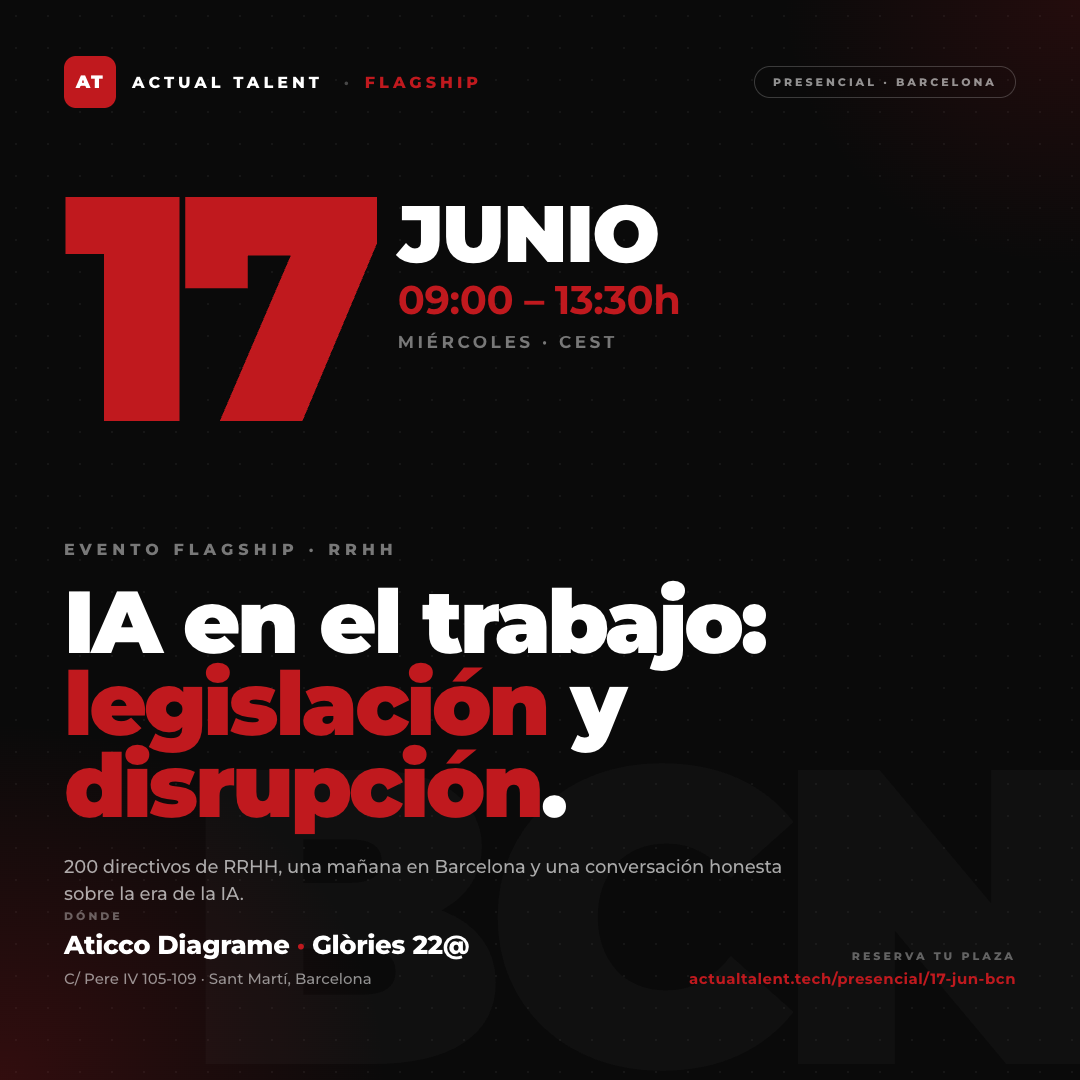
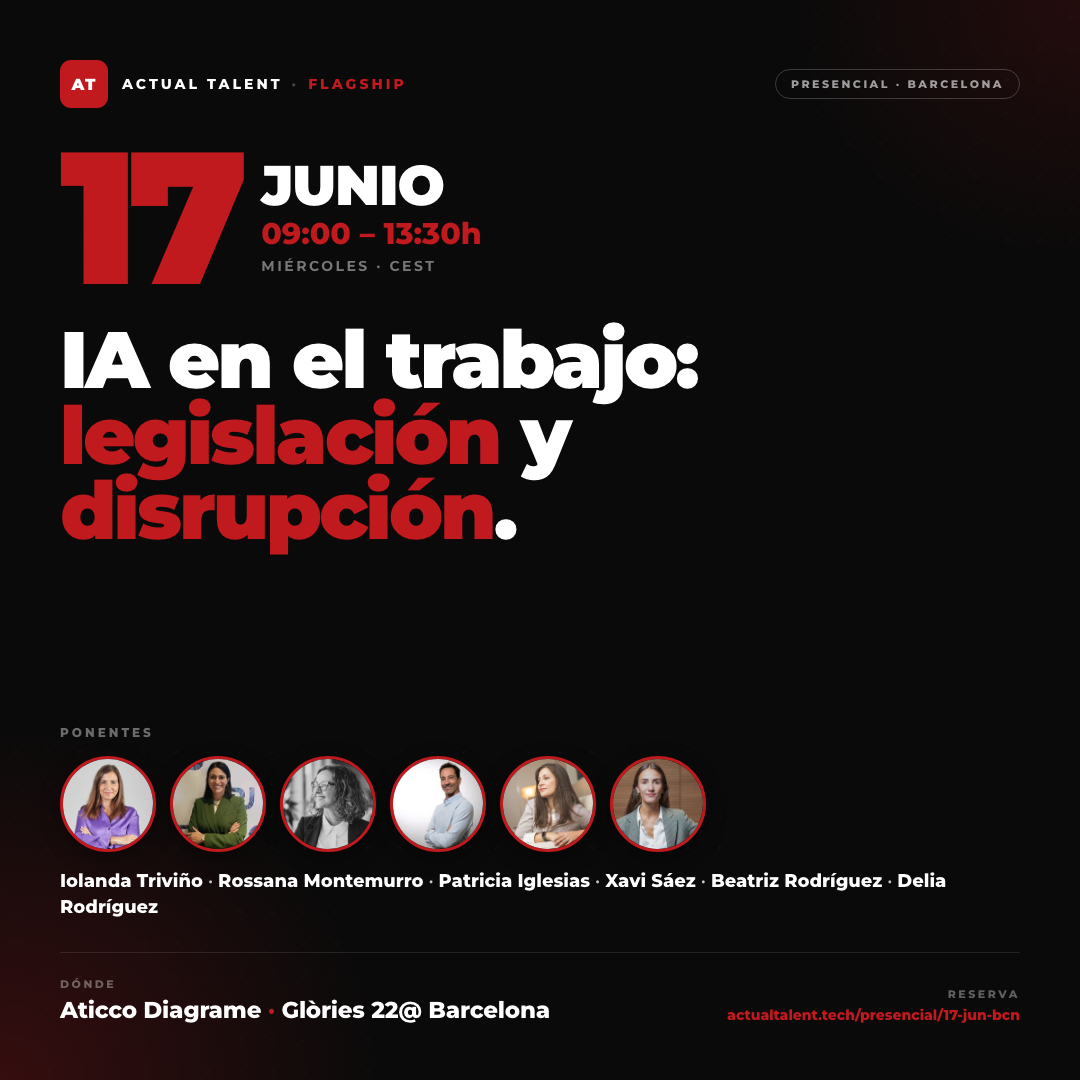
feat(17-jun-bcn): flyers - LinkedIn 4:5 (full lineup) + Luma 1:1 (legible)
LinkedIn flyer 1080x1350: big date + title + 6-speaker grid (photo/name/role) + venue/CTA.
Luma flyer 1080x1080: legibility-first (huge date/title/venue) + compact 6-face lineup strip.
Square PNG also refreshes the og:image for the WhatsApp/social preview. Dark AT-red style,
Montserrat, rendered at native 1080px.

diff --git a/presencial/17-jun-bcn/flyer-square/index.html b/presencial/17-jun-bcn/flyer-square/index.html
@@ -2,224 +2,90 @@
 <html lang="es">
 <head>
 <meta charset="UTF-8">
-<meta name="viewport" content="width=device-width, initial-scale=1.0">
 <title>Flyer 1080×1080 · IA en el trabajo: Legislación y disrupción · 17 jun 2026 · Barcelona</title>
 <link rel="preconnect" href="https://fonts.googleapis.com">
 <link href="https://fonts.googleapis.com/css2?family=Montserrat:wght@400;500;600;700;800;900&display=swap" rel="stylesheet">
 <style>
-*, *::before, *::after { box-sizing: border-box; margin: 0; padding: 0; }
-
-:root {
-  --red:        #C0191E;
-  --black:      #1A1A1A;
-  --near-black: #0A0A0A;
-  --gray:       #6B6B6B;
-  --white:      #ffffff;
-}
-
-body {
-  font-family: 'Montserrat', sans-serif;
-  background: #1A1A1A;
-  -webkit-font-smoothing: antialiased;
-  min-height: 100vh;
-  display: flex; align-items: center; justify-content: center;
-  padding: 20px;
-}
-
-.flyer {
-  width: 1080px; height: 1080px;
-  flex-shrink: 0;
-  position: relative; overflow: hidden;
-  background: var(--near-black);
-  background-image: radial-gradient(circle, rgba(255,255,255,0.05) 1.2px, transparent 1.2px);
-  background-size: 32px 32px;
-  color: var(--white);
-  transform-origin: center;
-}
-
-@media (max-width: 1120px), (max-height: 1120px) {
-  body { padding: 0; background: #000; }
-  .flyer { transform: scale(min(calc((100vw) / 1080), calc((100vh) / 1080))); }
-}
-
-/* ATMOSPHERE */
-.flyer::before {
-  content: ''; position: absolute; inset: 0;
-  background:
-    radial-gradient(ellipse 65% 60% at 0% 100%, rgba(192,25,30,0.22) 0%, transparent 55%),
-    radial-gradient(ellipse 50% 45% at 100% 0%, rgba(192,25,30,0.14) 0%, transparent 55%);
-  pointer-events: none; z-index: 1;
-}
-
-/* WATERMARK */
-.flyer::after {
-  content: 'BCN';
-  position: absolute; bottom: -4%; right: -1%;
-  font-size: 420px; font-weight: 900; letter-spacing: -0.05em;
-  color: rgba(255,255,255,0.025); line-height: 1;
-  pointer-events: none; user-select: none; z-index: 1;
-}
-
-/* TOP BAR */
-.topbar {
-  position: absolute; top: 56px; left: 64px; right: 64px;
-  display: flex; align-items: center; justify-content: space-between;
-  z-index: 10;
-}
-.brand-mark { display: flex; align-items: center; gap: 16px; }
-.at-logo {
-  width: 52px; height: 52px;
-  border-radius: 12px; background: var(--red);
-  display: flex; align-items: center; justify-content: center;
-  font-size: 18px; font-weight: 900; letter-spacing: 1.5px; color: var(--white);
-}
-.brand-text {
-  font-size: 16px; font-weight: 800; letter-spacing: 4px; text-transform: uppercase;
-  color: var(--white);
-}
-.brand-text .sep { color: rgba(255,255,255,0.25); margin: 0 12px; }
-.brand-text .type { color: var(--red); }
-
-.format-tag {
-  font-size: 11px; font-weight: 800; letter-spacing: 3px; text-transform: uppercase;
-  color: rgba(255,255,255,0.55);
-  border: 1px solid rgba(255,255,255,0.2);
-  border-radius: 100px; padding: 8px 18px;
-}
-
-/* DATE BLOCK */
-.date-block {
-  position: absolute; top: 170px; left: 64px;
-  display: flex; align-items: flex-start; gap: 32px;
-  z-index: 5;
-}
-.date-num {
-  font-size: 320px; font-weight: 900; line-height: 0.85;
-  color: var(--red); letter-spacing: -0.06em;
-}
-.date-side {
-  display: flex; flex-direction: column; padding-top: 26px; gap: 8px;
-}
-.date-month {
-  font-size: 80px; font-weight: 900; line-height: 0.95;
-  color: var(--white); letter-spacing: -0.02em; text-transform: uppercase;
-}
-.date-time {
-  font-size: 40px; font-weight: 700; color: var(--red);
-  letter-spacing: -0.01em; line-height: 1;
-}
-.date-tz {
-  font-size: 17px; font-weight: 700; letter-spacing: 3.5px; text-transform: uppercase;
-  color: rgba(255,255,255,0.45); margin-top: 4px;
-}
-
-/* TITLE */
-.title-wrap {
-  position: absolute; top: 540px; left: 64px; right: 64px;
-  z-index: 5;
-}
-.title-eyebrow {
-  font-size: 16px; font-weight: 800; letter-spacing: 5px; text-transform: uppercase;
-  color: rgba(255,255,255,0.45); margin-bottom: 22px;
-}
-.title {
-  font-size: 88px; font-weight: 900; line-height: 0.93;
-  letter-spacing: -0.035em; color: var(--white);
-}
-.title .accent { color: var(--red); font-style: normal; }
-
-.title-sub {
-  font-size: 18px; font-weight: 500; line-height: 1.5;
-  color: rgba(255,255,255,0.65); letter-spacing: -0.005em;
-  margin-top: 28px; max-width: 720px;
-}
-
-/* LOCATION (bottom) */
-.location {
-  position: absolute; bottom: 92px; left: 64px; right: 64px;
-  display: flex; align-items: flex-end; justify-content: space-between;
-  z-index: 5; gap: 32px;
-}
-.loc-block { display: flex; flex-direction: column; gap: 8px; max-width: 640px; }
-.loc-label {
-  font-size: 11px; font-weight: 800; letter-spacing: 3px; text-transform: uppercase;
-  color: rgba(255,255,255,0.35);
-}
-.loc-venue {
-  font-size: 26px; font-weight: 800; color: var(--white);
-  letter-spacing: -0.015em; line-height: 1.15;
-}
-.loc-venue .dot { color: var(--red); }
-.loc-addr {
-  font-size: 15px; font-weight: 500; color: rgba(255,255,255,0.55);
-  letter-spacing: 0;
-}
-
-.loc-cta {
-  text-align: right;
-  display: flex; flex-direction: column; gap: 6px; align-items: flex-end;
-}
-.loc-cta-label {
-  font-size: 11px; font-weight: 800; letter-spacing: 3px; text-transform: uppercase;
-  color: rgba(255,255,255,0.35);
-}
-.loc-cta-url {
-  font-size: 15px; font-weight: 700; letter-spacing: 0.5px;
-  color: var(--red);
-}
-
+*,*::before,*::after{box-sizing:border-box;margin:0;padding:0}
+:root{--red:#C0191E;--black:#1A1A1A;--near-black:#0A0A0A;--white:#fff}
+body{font-family:'Montserrat',sans-serif;background:#000;-webkit-font-smoothing:antialiased;display:flex;align-items:center;justify-content:center;min-height:100vh}
+.flyer{width:1080px;height:1080px;flex-shrink:0;position:relative;overflow:hidden;background:var(--near-black);
+  background-image:radial-gradient(circle,rgba(255,255,255,.05) 1.2px,transparent 1.2px);background-size:32px 32px;color:var(--white)}
+@media (max-width:1120px),(max-height:1120px){body{padding:0}.flyer{transform:scale(min(calc(100vw/1080),calc(100vh/1080)));transform-origin:center}}
+.flyer::before{content:'';position:absolute;inset:0;background:
+  radial-gradient(ellipse 65% 60% at 0% 100%,rgba(192,25,30,.24) 0%,transparent 55%),
+  radial-gradient(ellipse 50% 45% at 100% 0%,rgba(192,25,30,.14) 0%,transparent 55%);pointer-events:none;z-index:1}
+.wrap{position:absolute;inset:0;z-index:5;padding:60px 60px 56px;display:flex;flex-direction:column}
+.topbar{display:flex;align-items:center;justify-content:space-between}
+.brand{display:flex;align-items:center;gap:14px}
+.at-logo{width:48px;height:48px;border-radius:11px;background:var(--red);display:flex;align-items:center;justify-content:center;font-size:16px;font-weight:900;letter-spacing:1px}
+.brand-text{font-size:14px;font-weight:800;letter-spacing:3px;text-transform:uppercase}
+.brand-text .sep{color:rgba(255,255,255,.25);margin:0 9px}.brand-text .t{color:var(--red)}
+.tag{font-size:11px;font-weight:800;letter-spacing:2.5px;text-transform:uppercase;color:rgba(255,255,255,.6);border:1px solid rgba(255,255,255,.2);border-radius:100px;padding:7px 15px}
+.date{display:flex;align-items:center;gap:24px;margin-top:34px}
+.date-num{font-size:188px;font-weight:900;line-height:.8;color:var(--red);letter-spacing:-.06em}
+.date-side{display:flex;flex-direction:column;gap:5px}
+.date-month{font-size:56px;font-weight:900;line-height:.9;text-transform:uppercase;letter-spacing:-.02em}
+.date-time{font-size:30px;font-weight:800;color:var(--red)}
+.date-tz{font-size:14px;font-weight:700;letter-spacing:2.5px;text-transform:uppercase;color:rgba(255,255,255,.45)}
+.title{font-size:80px;font-weight:900;line-height:.94;letter-spacing:-.035em;margin-top:30px}
+.title .a{color:var(--red)}
+.lineup{margin-top:auto;padding-top:30px}
+.lineup-label{font-size:12px;font-weight:800;letter-spacing:3px;text-transform:uppercase;color:rgba(255,255,255,.4);margin-bottom:16px}
+.faces{display:flex;gap:14px}
+.faces .f{width:96px;height:96px;border-radius:50%;overflow:hidden;border:3px solid var(--red);box-shadow:0 6px 20px rgba(0,0,0,.4)}
+.faces .f img{width:100%;height:100%;object-fit:cover;display:block}
+.names{font-size:18px;font-weight:600;color:rgba(255,255,255,.78);margin-top:16px;line-height:1.45;max-width:920px}
+.names b{color:var(--white);font-weight:800}
+.footer{display:flex;align-items:flex-end;justify-content:space-between;margin-top:32px;gap:24px;border-top:1px solid rgba(255,255,255,.1);padding-top:24px}
+.f-label{font-size:11px;font-weight:800;letter-spacing:2.5px;text-transform:uppercase;color:rgba(255,255,255,.35);margin-bottom:5px}
+.f-venue{font-size:23px;font-weight:800;letter-spacing:-.01em}.f-venue .d{color:var(--red)}
+.f-cta{text-align:right}.f-url{font-size:14px;font-weight:800;color:var(--red)}
 </style>
 </head>
 <body>
-
 <div class="flyer">
-
-  <!-- TOP BAR -->
-  <div class="topbar">
-    <div class="brand-mark">
-      <div class="at-logo">AT</div>
-      <div class="brand-text">Actual Talent <span class="sep">·</span><span class="type">Flagship</span></div>
+  <div class="wrap">
+    <div class="topbar">
+      <div class="brand"><div class="at-logo">AT</div><div class="brand-text">Actual Talent<span class="sep">·</span><span class="t">Flagship</span></div></div>
+      <div class="tag">Presencial · Barcelona</div>
     </div>
-    <div class="format-tag">Presencial · Barcelona</div>
-  </div>
 
-  <!-- DATE BLOCK -->
-  <div class="date-block">
-    <div class="date-num">17</div>
-    <div class="date-side">
-      <div class="date-month">Junio</div>
-      <div class="date-time">09:00 – 13:30h</div>
-      <div class="date-tz">Miércoles · CEST</div>
+    <div class="date">
+      <div class="date-num">17</div>
+      <div class="date-side">
+        <div class="date-month">Junio</div>
+        <div class="date-time">09:00 – 13:30h</div>
+        <div class="date-tz">Miércoles · CEST</div>
+      </div>
     </div>
-  </div>
 
-  <!-- TITLE -->
-  <div class="title-wrap">
-    <div class="title-eyebrow">Evento flagship · RRHH</div>
-    <h1 class="title">
-      IA en el trabajo:<br>
-      <span class="accent">legislación</span> y<br>
-      <span class="accent">disrupción</span>.
-    </h1>
-    <p class="title-sub">
-      200 directivos de RRHH, una mañana en Barcelona y una conversación honesta sobre la era de la IA.
-    </p>
-  </div>
+    <h1 class="title">IA en el trabajo:<br><span class="a">legislación</span> y <span class="a">disrupción</span>.</h1>
 
-  <!-- LOCATION -->
-  <div class="location">
-    <div class="loc-block">
-      <div class="loc-label">Dónde</div>
-      <div class="loc-venue">Aticco Diagrame <span class="dot">·</span> Glòries 22@</div>
-      <div class="loc-addr">C/ Pere IV 105-109 · Sant Martí, Barcelona</div>
+    <div class="lineup">
+      <div class="lineup-label">Ponentes</div>
+      <div class="faces">
+        <div class="f"><img src="../../../webinar/assets/speakers/iolanda-trivino.jpg"></div>
+        <div class="f"><img src="../../../webinar/assets/speakers/rossana-montemurro.jpg"></div>
+        <div class="f"><img src="../../../webinar/assets/speakers/patricia-iglesias.jpg"></div>
+        <div class="f"><img src="../../../webinar/assets/speakers/xavi-saez.jpg"></div>
+        <div class="f"><img src="../../../webinar/assets/speakers/beatriz-rodriguez.jpg"></div>
+        <div class="f"><img src="../../../webinar/assets/speakers/delia-rodriguez.jpg"></div>
+      </div>
+      <div class="names"><b>Iolanda Triviño</b> · <b>Rossana Montemurro</b> · <b>Patricia Iglesias</b> · <b>Xavi Sáez</b> · <b>Beatriz Rodríguez</b> · <b>Delia Rodríguez</b></div>
     </div>
-    <div class="loc-cta">
-      <div class="loc-cta-label">Reserva tu plaza</div>
-      <div class="loc-cta-url">actualtalent.tech/presencial/17-jun-bcn</div>
+
+    <div class="footer">
+      <div>
+        <div class="f-label">Dónde</div>
+        <div class="f-venue">Aticco Diagrame <span class="d">·</span> Glòries 22@ Barcelona</div>
+      </div>
+      <div class="f-cta">
+        <div class="f-label">Reserva</div>
+        <div class="f-url">actualtalent.tech/presencial/17-jun-bcn</div>
+      </div>
     </div>
   </div>
-
 </div>
-
 </body>
 </html>

diff --git a/presencial/17-jun-bcn/flyer-linkedin/index.html b/presencial/17-jun-bcn/flyer-linkedin/index.html
@@ -1,0 +1,91 @@
+<!DOCTYPE html>
+<html lang="es">
+<head>
+<meta charset="UTF-8">
+<title>Flyer LinkedIn 1080×1350 · IA en el trabajo · 17 jun 2026 · Barcelona</title>
+<link rel="preconnect" href="https://fonts.googleapis.com">
+<link href="https://fonts.googleapis.com/css2?family=Montserrat:wght@400;500;600;700;800;900&display=swap" rel="stylesheet">
+<style>
+*,*::before,*::after{box-sizing:border-box;margin:0;padding:0}
+:root{--red:#C0191E;--black:#1A1A1A;--near-black:#0A0A0A;--white:#fff}
+body{font-family:'Montserrat',sans-serif;background:#000;-webkit-font-smoothing:antialiased;display:flex;align-items:center;justify-content:center;min-height:100vh}
+.flyer{width:1080px;height:1350px;flex-shrink:0;position:relative;overflow:hidden;background:var(--near-black);
+  background-image:radial-gradient(circle,rgba(255,255,255,.05) 1.2px,transparent 1.2px);background-size:32px 32px;color:var(--white)}
+@media (max-width:1120px),(max-height:1390px){body{padding:0}.flyer{transform:scale(min(calc(100vw/1080),calc(100vh/1350)));transform-origin:center}}
+.flyer::before{content:'';position:absolute;inset:0;background:
+  radial-gradient(ellipse 60% 50% at 0% 100%,rgba(192,25,30,.24) 0%,transparent 55%),
+  radial-gradient(ellipse 50% 40% at 100% 0%,rgba(192,25,30,.14) 0%,transparent 55%);pointer-events:none;z-index:1}
+.wrap{position:absolute;inset:0;z-index:5;padding:64px 64px 56px;display:flex;flex-direction:column}
+.topbar{display:flex;align-items:center;justify-content:space-between}
+.brand{display:flex;align-items:center;gap:14px}
+.at-logo{width:50px;height:50px;border-radius:12px;background:var(--red);display:flex;align-items:center;justify-content:center;font-size:17px;font-weight:900;letter-spacing:1px}
+.brand-text{font-size:15px;font-weight:800;letter-spacing:3.5px;text-transform:uppercase}
+.brand-text .sep{color:rgba(255,255,255,.25);margin:0 10px}.brand-text .t{color:var(--red)}
+.tag{font-size:11px;font-weight:800;letter-spacing:2.5px;text-transform:uppercase;color:rgba(255,255,255,.6);border:1px solid rgba(255,255,255,.2);border-radius:100px;padding:8px 16px}
+.date{display:flex;align-items:flex-start;gap:26px;margin-top:48px}
+.date-num{font-size:230px;font-weight:900;line-height:.82;color:var(--red);letter-spacing:-.06em}
+.date-side{padding-top:18px;display:flex;flex-direction:column;gap:6px}
+.date-month{font-size:62px;font-weight:900;line-height:.9;text-transform:uppercase;letter-spacing:-.02em}
+.date-time{font-size:34px;font-weight:800;color:var(--red)}
+.date-tz{font-size:15px;font-weight:700;letter-spacing:3px;text-transform:uppercase;color:rgba(255,255,255,.45);margin-top:2px}
+.eyebrow{font-size:15px;font-weight:800;letter-spacing:4px;text-transform:uppercase;color:rgba(255,255,255,.45);margin-top:40px}
+.title{font-size:82px;font-weight:900;line-height:.94;letter-spacing:-.035em;margin-top:18px}
+.title .a{color:var(--red)}
+.speakers{margin-top:auto;display:grid;grid-template-columns:repeat(3,1fr);gap:30px 24px;padding-top:40px}
+.sp{display:flex;flex-direction:column;align-items:center;text-align:center}
+.sp-photo{width:138px;height:138px;border-radius:50%;overflow:hidden;border:3px solid var(--red);box-shadow:0 8px 26px rgba(0,0,0,.4);margin-bottom:14px}
+.sp-photo img{width:100%;height:100%;object-fit:cover;display:block}
+.sp-name{font-size:21px;font-weight:800;letter-spacing:-.01em;line-height:1.1}
+.sp-role{font-size:13px;font-weight:700;letter-spacing:.5px;color:rgba(255,255,255,.5);margin-top:4px}
+.footer{display:flex;align-items:flex-end;justify-content:space-between;margin-top:44px;gap:24px}
+.f-label{font-size:11px;font-weight:800;letter-spacing:2.5px;text-transform:uppercase;color:rgba(255,255,255,.35);margin-bottom:6px}
+.f-venue{font-size:24px;font-weight:800;letter-spacing:-.01em}.f-venue .d{color:var(--red)}
+.f-addr{font-size:14px;font-weight:500;color:rgba(255,255,255,.55);margin-top:3px}
+.f-cta{text-align:right}
+.f-url{font-size:15px;font-weight:800;color:var(--red);letter-spacing:.3px}
+</style>
+</head>
+<body>
+<div class="flyer">
+  <div class="wrap">
+    <div class="topbar">
+      <div class="brand"><div class="at-logo">AT</div><div class="brand-text">Actual Talent<span class="sep">·</span><span class="t">Flagship</span></div></div>
+      <div class="tag">Presencial · Barcelona</div>
+    </div>
+
+    <div class="date">
+      <div class="date-num">17</div>
+      <div class="date-side">
+        <div class="date-month">Junio</div>
+        <div class="date-time">09:00 – 13:30h</div>
+        <div class="date-tz">Miércoles · CEST</div>
+      </div>
+    </div>
+
+    <div class="eyebrow">Evento flagship · RRHH</div>
+    <h1 class="title">IA en el trabajo:<br><span class="a">legislación</span> y <span class="a">disrupción</span>.</h1>
+
+    <div class="speakers">
+      <div class="sp"><div class="sp-photo"><img src="../../../webinar/assets/speakers/iolanda-trivino.jpg"></div><div class="sp-name">Iolanda Triviño</div><div class="sp-role">Institute for Futures</div></div>
+      <div class="sp"><div class="sp-photo"><img src="../../../webinar/assets/speakers/rossana-montemurro.jpg"></div><div class="sp-name">Rossana Montemurro</div><div class="sp-role">CPCO · Cooltra</div></div>
+      <div class="sp"><div class="sp-photo"><img src="../../../webinar/assets/speakers/patricia-iglesias.jpg"></div><div class="sp-name">Patricia Iglesias</div><div class="sp-role">CPCO · Techsoulogy</div></div>
+      <div class="sp"><div class="sp-photo"><img src="../../../webinar/assets/speakers/xavi-saez.jpg"></div><div class="sp-name">Xavi Sáez</div><div class="sp-role">CEO · KPI</div></div>
+      <div class="sp"><div class="sp-photo"><img src="../../../webinar/assets/speakers/beatriz-rodriguez.jpg"></div><div class="sp-name">Beatriz Rodríguez</div><div class="sp-role">Socia · RocaJunyent</div></div>
+      <div class="sp"><div class="sp-photo"><img src="../../../webinar/assets/speakers/delia-rodriguez.jpg"></div><div class="sp-name">Delia Rodríguez</div><div class="sp-role">Abogada · RocaJunyent</div></div>
+    </div>
+
+    <div class="footer">
+      <div>
+        <div class="f-label">Dónde</div>
+        <div class="f-venue">Aticco Diagrame <span class="d">·</span> Glòries 22@</div>
+        <div class="f-addr">C/ Pere IV 105-109 · Sant Martí, Barcelona</div>
+      </div>
+      <div class="f-cta">
+        <div class="f-label">Reserva tu plaza</div>
+        <div class="f-url">actualtalent.tech/presencial/17-jun-bcn</div>
+      </div>
+    </div>
+  </div>
+</div>
+</body>
+</html>
